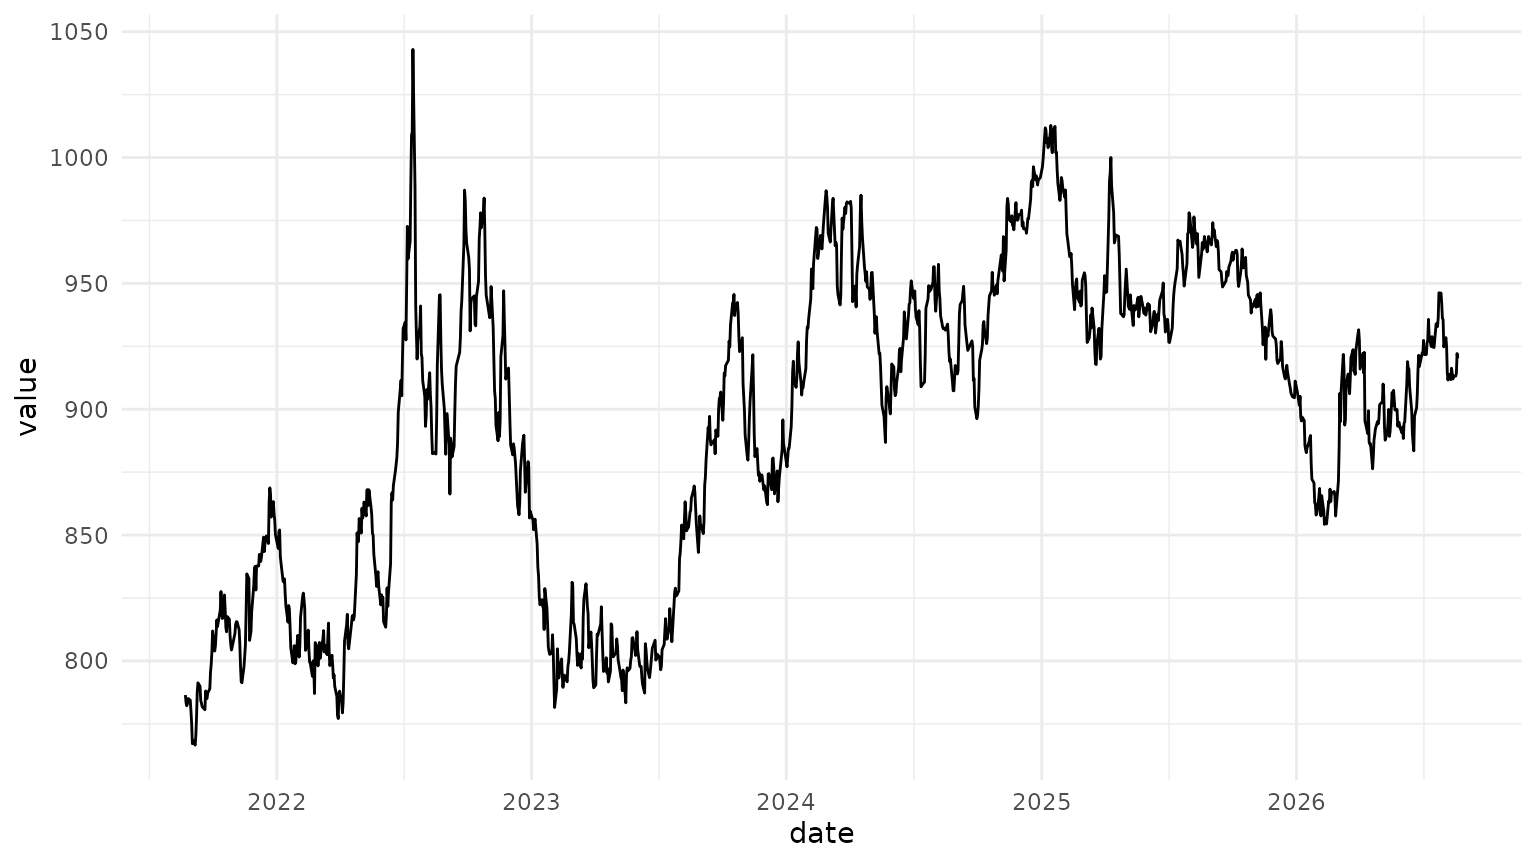
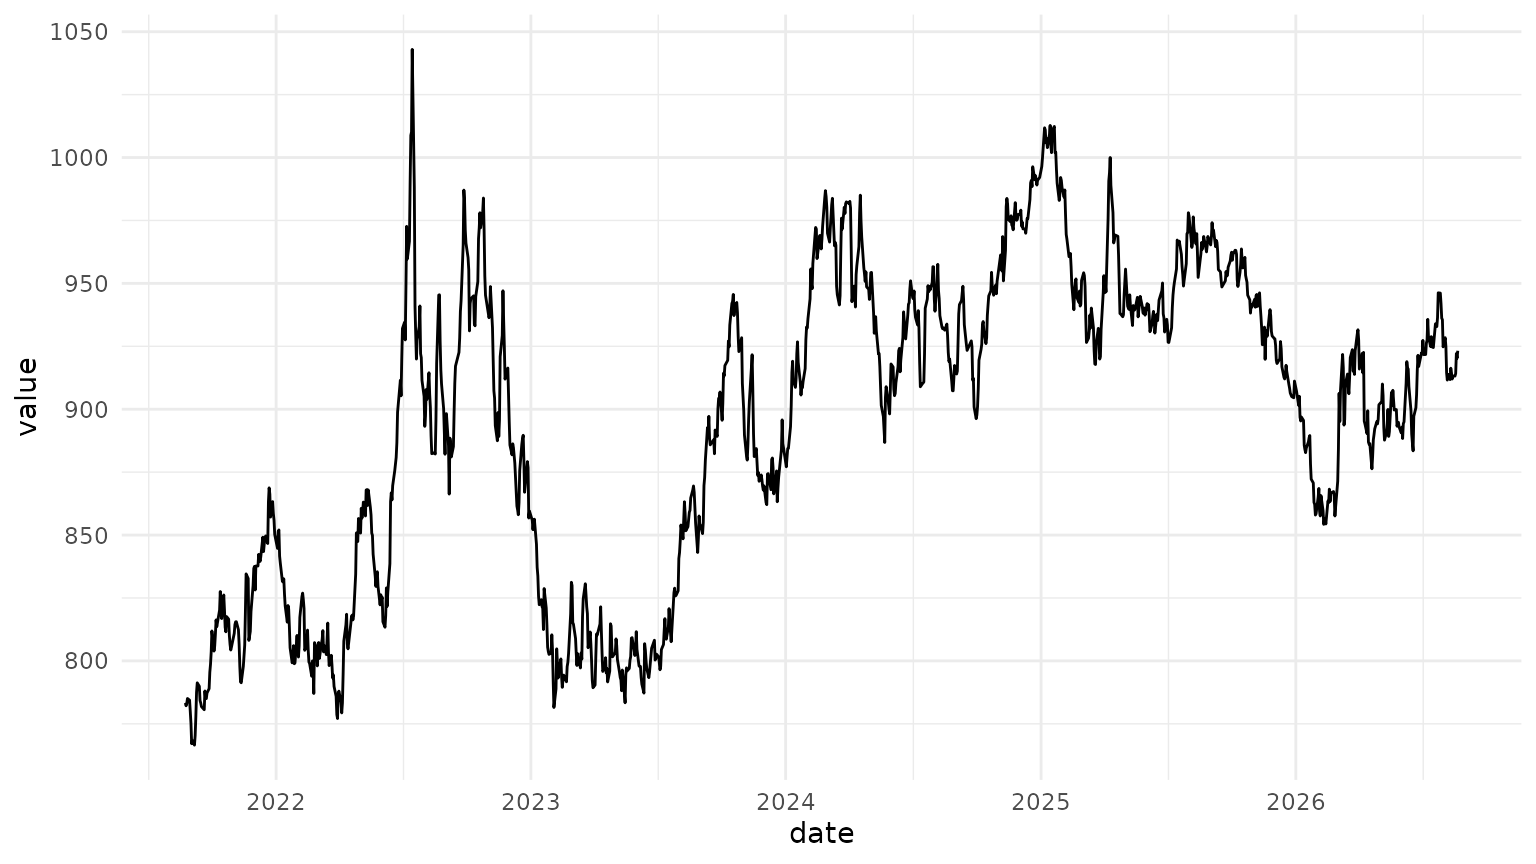
Built site for bcchr@0.1.0.9000: a48a9b5

diff --git a/reference/resolve_series.html b/reference/resolve_series.html
@@ -1,9 +1,15 @@
 <!DOCTYPE html>
 <!-- Generated by pkgdown: do not edit by hand --><html lang="es"><head><meta http-equiv="Content-Type" content="text/html; charset=UTF-8"><meta charset="utf-8"><meta http-equiv="X-UA-Compatible" content="IE=edge"><meta name="viewport" content="width=device-width, initial-scale=1, shrink-to-fit=no"><title>Resolver una descripcion a series del Banco Central — resolve_series • bcchr</title><script src="../deps/jquery-3.6.0/jquery-3.6.0.min.js"></script><meta name="viewport" content="width=device-width, initial-scale=1, shrink-to-fit=no"><link href="../deps/bootstrap-5.3.8/bootstrap.min.css" rel="stylesheet"><script src="../deps/bootstrap-5.3.8/bootstrap.bundle.min.js"></script><link href="../deps/IBM_Plex_Sans-0.4.10/font.css" rel="stylesheet"><link href="../deps/Fira_Mono-0.4.10/font.css" rel="stylesheet"><link href="../deps/font-awesome-6.5.2/css/all.min.css" rel="stylesheet"><link href="../deps/font-awesome-6.5.2/css/v4-shims.min.css" rel="stylesheet"><script src="../deps/headroom-0.11.0/headroom.min.js"></script><script src="../deps/headroom-0.11.0/jQuery.headroom.min.js"></script><script src="../deps/bootstrap-toc-1.0.1/bootstrap-toc.min.js"></script><script src="../deps/clipboard.js-2.0.11/clipboard.min.js"></script><script src="../deps/search-1.0.0/autocomplete.jquery.min.js"></script><script src="../deps/search-1.0.0/fuse.min.js"></script><script src="../deps/search-1.0.0/mark.min.js"></script><!-- pkgdown --><script src="../pkgdown.js"></script><meta property="og:title" content="Resolver una descripcion a series del Banco Central — resolve_series"><meta name="description" content="Busca en el catalogo del Banco Central usando uno o varios terminos legibles
-por una persona y devuelve las series candidatas. Esta funcion solo encuentra
-candidatos; no elige una serie por el usuario."><meta property="og:description" content="Busca en el catalogo del Banco Central usando uno o varios terminos legibles
-por una persona y devuelve las series candidatas. Esta funcion solo encuentra
-candidatos; no elige una serie por el usuario."></head><body>
+por una persona y devuelve las series candidatas. Las busquedas ignoran
+mayusculas y acentos. Cuando una consulta contiene varias palabras, todas
+deben aparecer en alguno de los campos series_id, spanish_title o
+english_title, aunque no sean contiguas ni aparezcan en el mismo campo.
+Esta funcion solo encuentra candidatos; no elige una serie por el usuario."><meta property="og:description" content="Busca en el catalogo del Banco Central usando uno o varios terminos legibles
+por una persona y devuelve las series candidatas. Las busquedas ignoran
+mayusculas y acentos. Cuando una consulta contiene varias palabras, todas
+deben aparecer en alguno de los campos series_id, spanish_title o
+english_title, aunque no sean contiguas ni aparezcan en el mismo campo.
+Esta funcion solo encuentra candidatos; no elige una serie por el usuario."></head><body>
     <a href="#main" class="visually-hidden-focusable">Ir al contenido</a>
 
 
@@ -40,8 +46,11 @@ candidatos; no elige una serie por el usuario."></head><body>
 
     <div class="ref-description section level2">
     <p>Busca en el catalogo del Banco Central usando uno o varios terminos legibles
-por una persona y devuelve las series candidatas. Esta funcion solo encuentra
-candidatos; no elige una serie por el usuario.</p>
+por una persona y devuelve las series candidatas. Las busquedas ignoran
+mayusculas y acentos. Cuando una consulta contiene varias palabras, todas
+deben aparecer en alguno de los campos <code>series_id</code>, <code>spanish_title</code> o
+<code>english_title</code>, aunque no sean contiguas ni aparezcan en el mismo campo.
+Esta funcion solo encuentra candidatos; no elige una serie por el usuario.</p>
     </div>
 
     <div class="section level2">

diff --git a/articles/ggplot.html b/articles/ggplot.html
@@ -94,12 +94,12 @@ la serie es exacto; cuando no lo conozca puede encontrar candidatos con
 <span><span class="co">#&gt; <span style="color: #949494;"># A tibble: 6 × 2</span></span></span>
 <span><span class="co">#&gt;   date       value</span></span>
 <span><span class="co">#&gt;   <span style="color: #949494; font-style: italic;">&lt;date&gt;</span>     <span style="color: #949494; font-style: italic;">&lt;dbl&gt;</span></span></span>
-<span><span class="co">#&gt; <span style="color: #BCBCBC;">1</span> 2026-08-13  912 </span></span>
-<span><span class="co">#&gt; <span style="color: #BCBCBC;">2</span> 2026-08-14  913.</span></span>
-<span><span class="co">#&gt; <span style="color: #BCBCBC;">3</span> 2026-08-17  913.</span></span>
-<span><span class="co">#&gt; <span style="color: #BCBCBC;">4</span> 2026-08-18  914.</span></span>
-<span><span class="co">#&gt; <span style="color: #BCBCBC;">5</span> 2026-08-19  922.</span></span>
-<span><span class="co">#&gt; <span style="color: #BCBCBC;">6</span> 2026-08-20  920.</span></span></code></pre></div>
+<span><span class="co">#&gt; <span style="color: #BCBCBC;">1</span> 2026-08-14  913.</span></span>
+<span><span class="co">#&gt; <span style="color: #BCBCBC;">2</span> 2026-08-17  913.</span></span>
+<span><span class="co">#&gt; <span style="color: #BCBCBC;">3</span> 2026-08-18  914.</span></span>
+<span><span class="co">#&gt; <span style="color: #BCBCBC;">4</span> 2026-08-19  922.</span></span>
+<span><span class="co">#&gt; <span style="color: #BCBCBC;">5</span> 2026-08-20  920.</span></span>
+<span><span class="co">#&gt; <span style="color: #BCBCBC;">6</span> 2026-08-21  923.</span></span></code></pre></div>
 </div>
 <div class="section level2">
 <h2 id="la-opción-rápida">La opción rápida<a class="anchor" aria-label="anchor" href="#la-opci%C3%B3n-r%C3%A1pida"></a>

diff --git a/news/index.html b/news/index.html
@@ -36,6 +36,8 @@
     <div class="section level2">
 <h2 class="pkg-version" data-toc-text="0.1.0.9000" id="bcchr-0109000">bcchr 0.1.0.9000<a class="anchor" aria-label="anchor" href="#bcchr-0109000"></a></h2>
 <ul><li>
+<code><a href="../reference/resolve_series.html">resolve_series()</a></code> ahora separa las consultas en palabras y exige que todos los terminos aparezcan en el codigo o los titulos de la serie, sin requerir que formen una frase contigua. La busqueda sigue ignorando mayusculas y acentos y conserva el soporte para multiples consultas.</li>
+<li>
 <code><a href="../reference/metadata.html">metadata()</a></code>, <code><a href="../reference/resolve_series.html">resolve_series()</a></code>, <code><a href="../reference/describe_series.html">describe_series()</a></code> y <code><a href="../reference/get_series.html">get_series()</a></code> ahora aceptan vectores. Las consultas de varias series reutilizan la metadata y devuelven resultados en formato largo.</li>
 <li>
 <code><a href="../reference/get_series.html">get_series()</a></code> agrega <code>series_id</code> a su resultado y respeta el limite oficial de cinco consultas de series por segundo.</li>

diff --git a/reference/resolve_series.md b/reference/resolve_series.md
@@ -1,8 +1,12 @@
 # Resolver una descripcion a series del Banco Central
 
 Busca en el catalogo del Banco Central usando uno o varios terminos
-legibles por una persona y devuelve las series candidatas. Esta funcion
-solo encuentra candidatos; no elige una serie por el usuario.
+legibles por una persona y devuelve las series candidatas. Las busquedas
+ignoran mayusculas y acentos. Cuando una consulta contiene varias
+palabras, todas deben aparecer en alguno de los campos `series_id`,
+`spanish_title` o `english_title`, aunque no sean contiguas ni aparezcan
+en el mismo campo. Esta funcion solo encuentra candidatos; no elige una
+serie por el usuario.
 
 ## Uso
 

diff --git a/news/index.md b/news/index.md
@@ -2,6 +2,11 @@
 
 ## bcchr 0.1.0.9000
 
+- [`resolve_series()`](https://jkunst.com/bcchr/reference/resolve_series.md)
+  ahora separa las consultas en palabras y exige que todos los terminos
+  aparezcan en el codigo o los titulos de la serie, sin requerir que
+  formen una frase contigua. La busqueda sigue ignorando mayusculas y
+  acentos y conserva el soporte para multiples consultas.
 - [`metadata()`](https://jkunst.com/bcchr/reference/metadata.md),
   [`resolve_series()`](https://jkunst.com/bcchr/reference/resolve_series.md),
   [`describe_series()`](https://jkunst.com/bcchr/reference/describe_series.md)

diff --git a/articles/ggplot.md b/articles/ggplot.md
@@ -34,12 +34,12 @@ tail(dolar)
 #> # A tibble: 6 × 2
 #>   date       value
 #>   <date>     <dbl>
-#> 1 2026-08-13  912 
-#> 2 2026-08-14  913.
-#> 3 2026-08-17  913.
-#> 4 2026-08-18  914.
-#> 5 2026-08-19  922.
-#> 6 2026-08-20  920.
+#> 1 2026-08-14  913.
+#> 2 2026-08-17  913.
+#> 3 2026-08-18  914.
+#> 4 2026-08-19  922.
+#> 5 2026-08-20  920.
+#> 6 2026-08-21  923.
 ```
 
 ## La opción rápida
